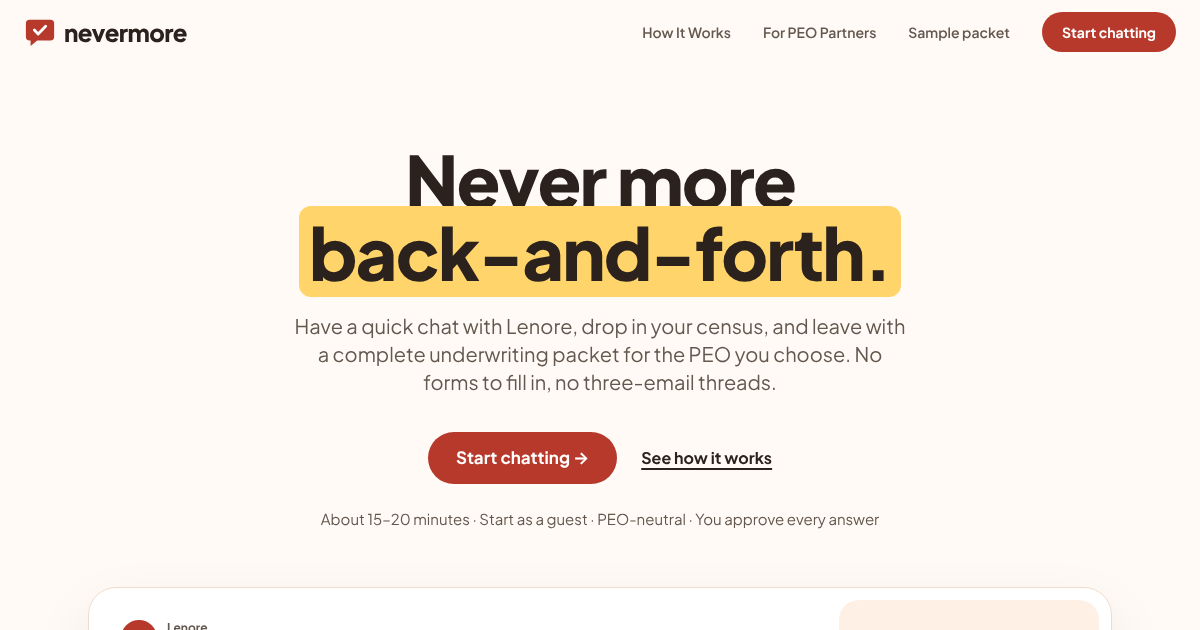
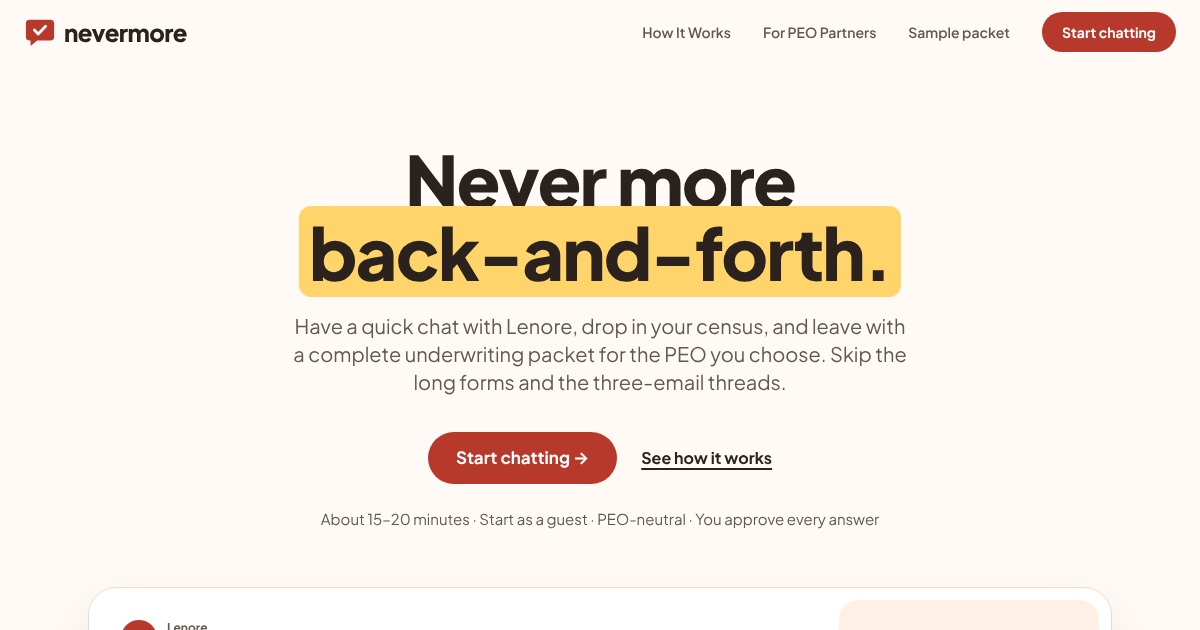
fix(brand): act on the review (phone overflow, landing claims, contrast)
- Landing hero no longer scrolls sideways on phones: the hero facts line could
  not wrap (every fact was a no-wrap span with nothing breakable between them,
  582px wide), and the headline now scales with the screen below 640px. Checked
  320 to 1280px: no page is wider than the viewport.
- Landing copy keeps to what the product does: "No forms to fill in" is now
  "Skip the long forms" (the census template and certification are forms; the
  copy guard now rejects "no forms to fill"), and the chat preview no longer
  shows an attach button or Lenore taking the census in chat: she points to
  the Upload tab and asks one question at a time.
- The "Connecting..." voice button is solid enough to read on the light stage
  (white on primary/90, about 4.9:1, was 2.9:1).
- The browser's fallback reply matches the server's acknowledgement.
- Social image regenerated from the updated hero.

Claude-Session: https://claude.ai/code/session_016i9iapHSD1fYhVQZGAyGHm

Changed region(s): [[0.2467, 0.5429, 0.7708, 0.6333]]

diff --git a/src/pages/LandingPage.tsx b/src/pages/LandingPage.tsx
@@ -1,7 +1,7 @@
-import { useEffect } from "react";
+import { Fragment, useEffect } from "react";
 import { Link, useLocation } from "react-router-dom";
 import { motion } from "framer-motion";
-import { Check, MessageCircle, Paperclip, PenLine, Send } from "lucide-react";
+import { Check, MessageCircle, PenLine, Send } from "lucide-react";
 import { BrandMark, Wordmark } from "@/components/BrandMark";
 import LegalLinks from "@/components/LegalLinks";
 
@@ -67,24 +67,21 @@ const STEPS = [
 ];
 
 // The example in the hero: what the intake looks like while Lenore fills in the packet. Sample data only.
-const PACKET_DONE = ["Company details", "Employees (28)", "Dependents", "Current benefits"];
+const PACKET_DONE = ["Company details", "Workforce", "Locations", "Payroll"];
 
 const IntakePreview = () => (
   <figure className="bg-card border border-border rounded-[28px] shadow-[0_24px_60px_hsl(var(--foreground)/0.08)] p-3 flex flex-wrap gap-3 text-left">
     <figcaption className="sr-only">An example intake: chatting with Lenore while the packet fills in.</figcaption>
     <div className="flex-[999_1_420px] min-w-0 p-4 sm:p-5 flex flex-col gap-4" aria-hidden="true">
-      <LenoreLine>Hi, I'm Lenore. I'll help you put your PEO packet together. Got a census handy? Drop it in, or just tell me about your team.</LenoreLine>
+      <LenoreLine>Hi, I'm Lenore, your intake assistant. Tell me a bit about your business, and drop your census on the Upload tab whenever it's handy.</LenoreLine>
       <div className="flex justify-end">
         <p className="max-w-[85%] bg-foreground text-background px-4 py-3 rounded-[18px] rounded-tr-[4px] leading-relaxed">
-          Here's our census. We're a creative agency, 28 people across California and Texas.
+          We're a creative agency, 28 people across California and Texas, and we pay every two weeks.
         </p>
       </div>
-      <LenoreLine>Thanks! I've added all 28 employees. Quick question: Tom Bradley is marked 1099. Is he a contractor?</LenoreLine>
+      <LenoreLine>Thanks, got it. Who carries your health coverage today?</LenoreLine>
       <div className="mt-1 flex items-center gap-2 border border-border rounded-full pl-5 pr-1.5 py-1.5">
         <span className="flex-1 text-muted-foreground">Type a message...</span>
-        <span className="w-10 h-10 rounded-full bg-muted flex items-center justify-center">
-          <Paperclip className="w-5 h-5" />
-        </span>
         <span className="w-10 h-10 rounded-full bg-primary text-primary-foreground flex items-center justify-center">
           <Send className="w-4 h-4" />
         </span>
@@ -106,9 +103,9 @@ const IntakePreview = () => (
             {label}
           </li>
         ))}
-        <li className="flex items-center gap-2.5">
+        <li className="flex flex-wrap items-center gap-x-2.5 gap-y-1">
           <span className="w-6 h-6 rounded-full border-2 border-dashed border-warning shrink-0" />
-          <span className="whitespace-nowrap">Workers' comp</span>
+          <span className="whitespace-nowrap">Current benefits</span>
           <span className="ml-auto whitespace-nowrap text-xs font-bold text-warning bg-warning/10 border border-warning/30 px-2 py-0.5 rounded-full">1 question</span>
         </li>
         <li className="flex items-center gap-2.5 text-muted-foreground">
@@ -149,13 +146,13 @@ const LandingPage = () => {
         <div className="mx-auto max-w-3xl text-center">
           <motion.h1
             {...fadeUp(0.1)}
-            className="font-display text-[2.6rem] leading-[1.08] sm:text-6xl md:text-7xl font-extrabold tracking-tight"
+            className="font-display text-[clamp(1.9rem,9.5vw,2.6rem)] leading-[1.08] sm:text-6xl md:text-7xl font-extrabold tracking-tight"
           >
             Never more <span className="bg-highlight text-highlight-foreground rounded-xl px-2.5 whitespace-nowrap">back-and-forth.</span>
           </motion.h1>
           <motion.p {...fadeUp(0.2)} className="text-lg md:text-xl text-muted-foreground max-w-[620px] mx-auto mt-6 leading-relaxed">
             Have a quick chat with Lenore, drop in your census, and leave with a complete underwriting packet for the PEO
-            you choose. No forms to fill in, no <span className="whitespace-nowrap">three-email</span> threads.
+            you choose. Skip the long forms and the <span className="whitespace-nowrap">three-email</span> threads.
           </motion.p>
           <motion.div {...fadeUp(0.3)} className="flex flex-wrap items-center justify-center gap-x-6 gap-y-3 mt-9">
             <Link
@@ -169,11 +166,12 @@ const LandingPage = () => {
             </a>
           </motion.div>
           <motion.p {...fadeUp(0.4)} className="mt-6 text-[15px] text-muted-foreground">
+            {/* Each fact stays on one line; the line breaks only at the separators between them. */}
             {["About 15–20 minutes", "Start as a guest", "PEO-neutral", "You approve every answer"].map((fact, i) => (
-              <span key={fact} className="whitespace-nowrap">
+              <Fragment key={fact}>
                 {i > 0 && <span aria-hidden="true"> · </span>}
-                {fact}
-              </span>
+                <span className="whitespace-nowrap">{fact}</span>
+              </Fragment>
             ))}
           </motion.p>
         </div>

diff --git a/src/components/chamber/VoiceOrb.tsx b/src/components/chamber/VoiceOrb.tsx
@@ -170,7 +170,7 @@ const VoiceOrb = ({
                 <button
                   type="button"
                   disabled
-                  className={`shrink-0 flex items-center gap-2 ${pill} py-2 rounded-full font-medium text-sm bg-primary/60 text-primary-foreground cursor-wait`}
+                  className={`shrink-0 flex items-center gap-2 ${pill} py-2 rounded-full font-medium text-sm bg-primary/90 text-primary-foreground cursor-wait`}
                 >
                   <Loader2 className="w-4 h-4 animate-spin" aria-hidden="true" />
                   <span className={label}>Connecting...</span>
@@ -256,7 +256,7 @@ const VoiceOrb = ({
               <button
                 type="button"
                 disabled
-                className="flex items-center gap-2 px-5 py-2.5 rounded-full font-medium text-sm bg-primary/60 text-primary-foreground cursor-wait"
+                className="flex items-center gap-2 px-5 py-2.5 rounded-full font-medium text-sm bg-primary/90 text-primary-foreground cursor-wait"
               >
                 <Loader2 className="w-4 h-4 animate-spin" aria-hidden="true" />
                 Connecting...

diff --git a/src/data/chat.ts b/src/data/chat.ts
@@ -129,7 +129,7 @@ export function parseTranscript(raw: unknown): ChatMessage[] {
  * chamber-extract always replies (when the model doesn't, it asks about the next unsettled field), so this covers
  * a function from before it did.
  */
-export const CHAT_FALLBACK_REPLY = "Thank you, I've noted that.";
+export const CHAT_FALLBACK_REPLY = "Thanks, got it.";
 
 /**
  * The answers as Lenore's chat sends them to chamber-extract. The roster isn't extracted from chat and holds

diff --git a/src/copy.guard.test.ts b/src/copy.guard.test.ts
@@ -37,6 +37,8 @@ const OVERPROMISES: [string, RegExp][] = [
   ["submitting the packet", /submitted to|certified submission|sample submission/i],
   ["no account at all", /no account required/i],
   ["no follow-up", /no follow-up required/i],
+  // The census template and the certification are forms, so "no forms" isn't true.
+  ["no forms at all", /no forms to fill/i],
   ["a demonstration workspace", /is a demonstration/i],
 ];
 const PACKET_COPY_FILES = [
